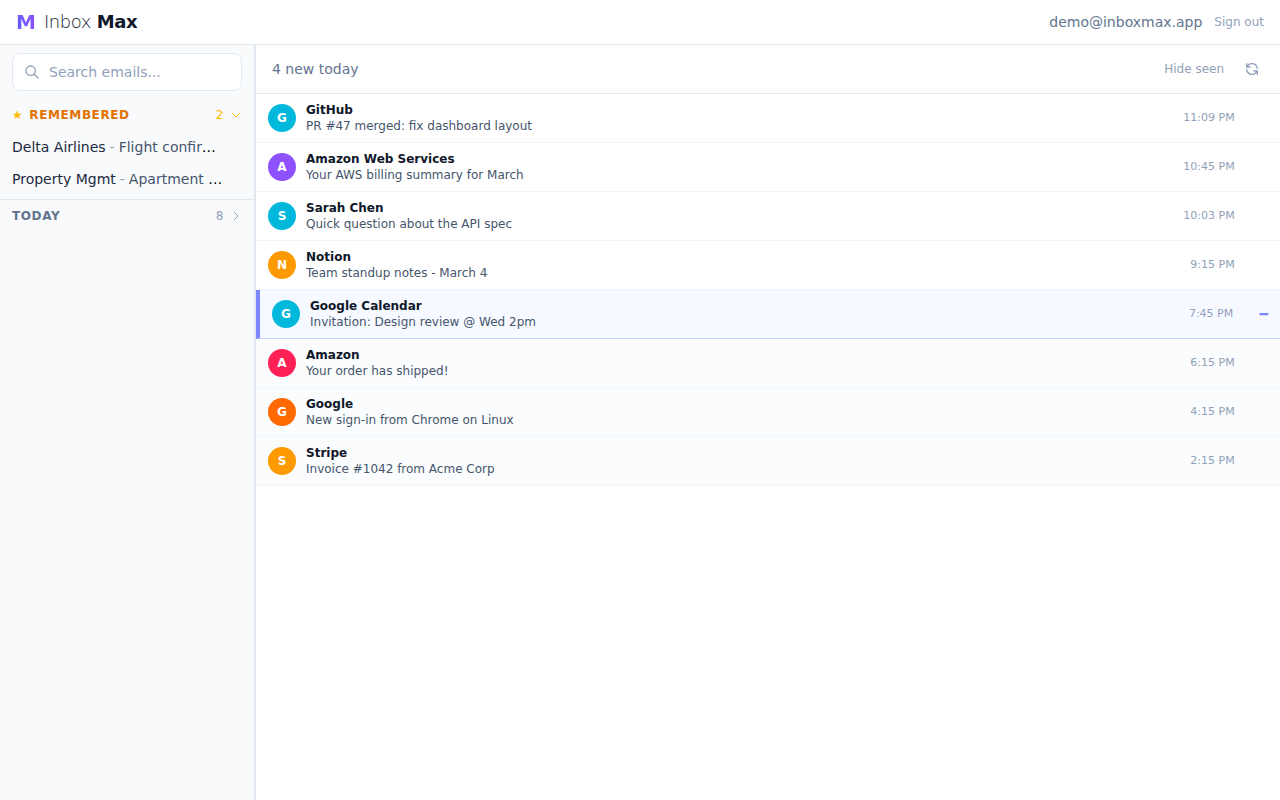
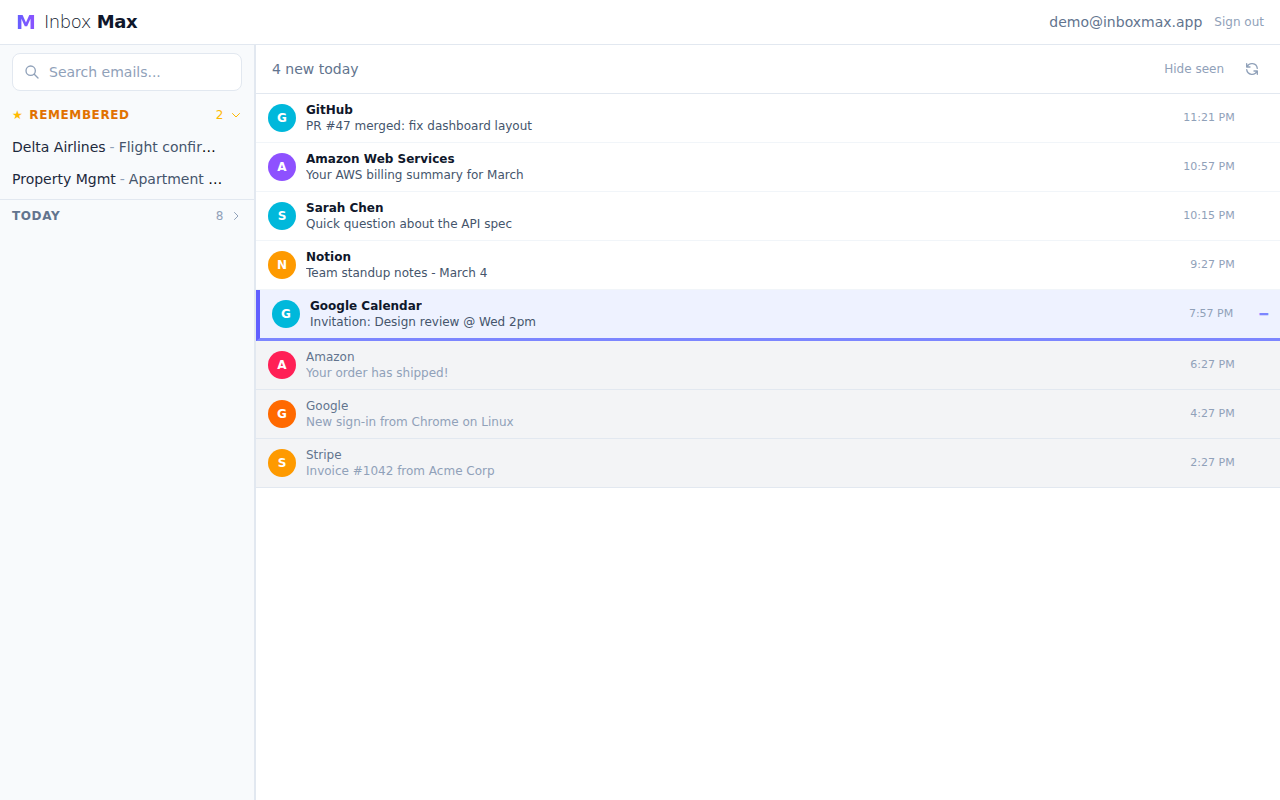
Improve seen/unseen email contrast and watermark visibility
Seen emails now have a gray background and dimmed text. The watermark
row has a thicker indigo bottom border as a clear divider. Regenerated
inbox screenshot for the README.

Changed region(s): [[0.1875, 0.4062, 1.0, 0.5938], [0.9375, 0.5625, 0.9688, 0.5938], [0.9375, 0.5, 0.9688, 0.5312]]

diff --git a/client/src/components/EmailRow.jsx b/client/src/components/EmailRow.jsx
@@ -43,9 +43,9 @@ export default function EmailRow({ email, onClick, isRemembered, onToggleRemembe
       onClick={() => onClick?.(email)}
       className={`flex items-center gap-2.5 px-3 py-2 cursor-pointer border-b transition group ${
         isWatermark
-          ? 'border-l-4 border-l-indigo-400 border-b-indigo-200 bg-indigo-50/50 hover:bg-indigo-50/80'
+          ? 'border-l-4 border-l-indigo-500 border-b-[3px] border-b-indigo-400 bg-indigo-50 hover:bg-indigo-100/80'
           : isSeen
-          ? 'bg-slate-50/60 border-slate-100 hover:bg-blue-50/60'
+          ? 'bg-gray-100 border-slate-200 hover:bg-gray-200/70'
           : 'border-slate-100 hover:bg-blue-50/60'
       }`}
     >
@@ -55,11 +55,11 @@ export default function EmailRow({ email, onClick, isRemembered, onToggleRemembe
 
       <div className="min-w-0 flex-1">
         <div className="flex items-baseline gap-1.5">
-          <span className="font-semibold text-xs text-slate-900 truncate">
+          <span className={`text-xs truncate ${isSeen ? 'font-medium text-slate-500' : 'font-semibold text-slate-900'}`}>
             {email.from?.split('<')[0]?.trim() || 'Unknown'}
           </span>
         </div>
-        <div className="text-xs text-slate-600 truncate">
+        <div className={`text-xs truncate ${isSeen ? 'text-slate-400' : 'text-slate-600'}`}>
           {email.subject || '(no subject)'}
         </div>
       </div>
